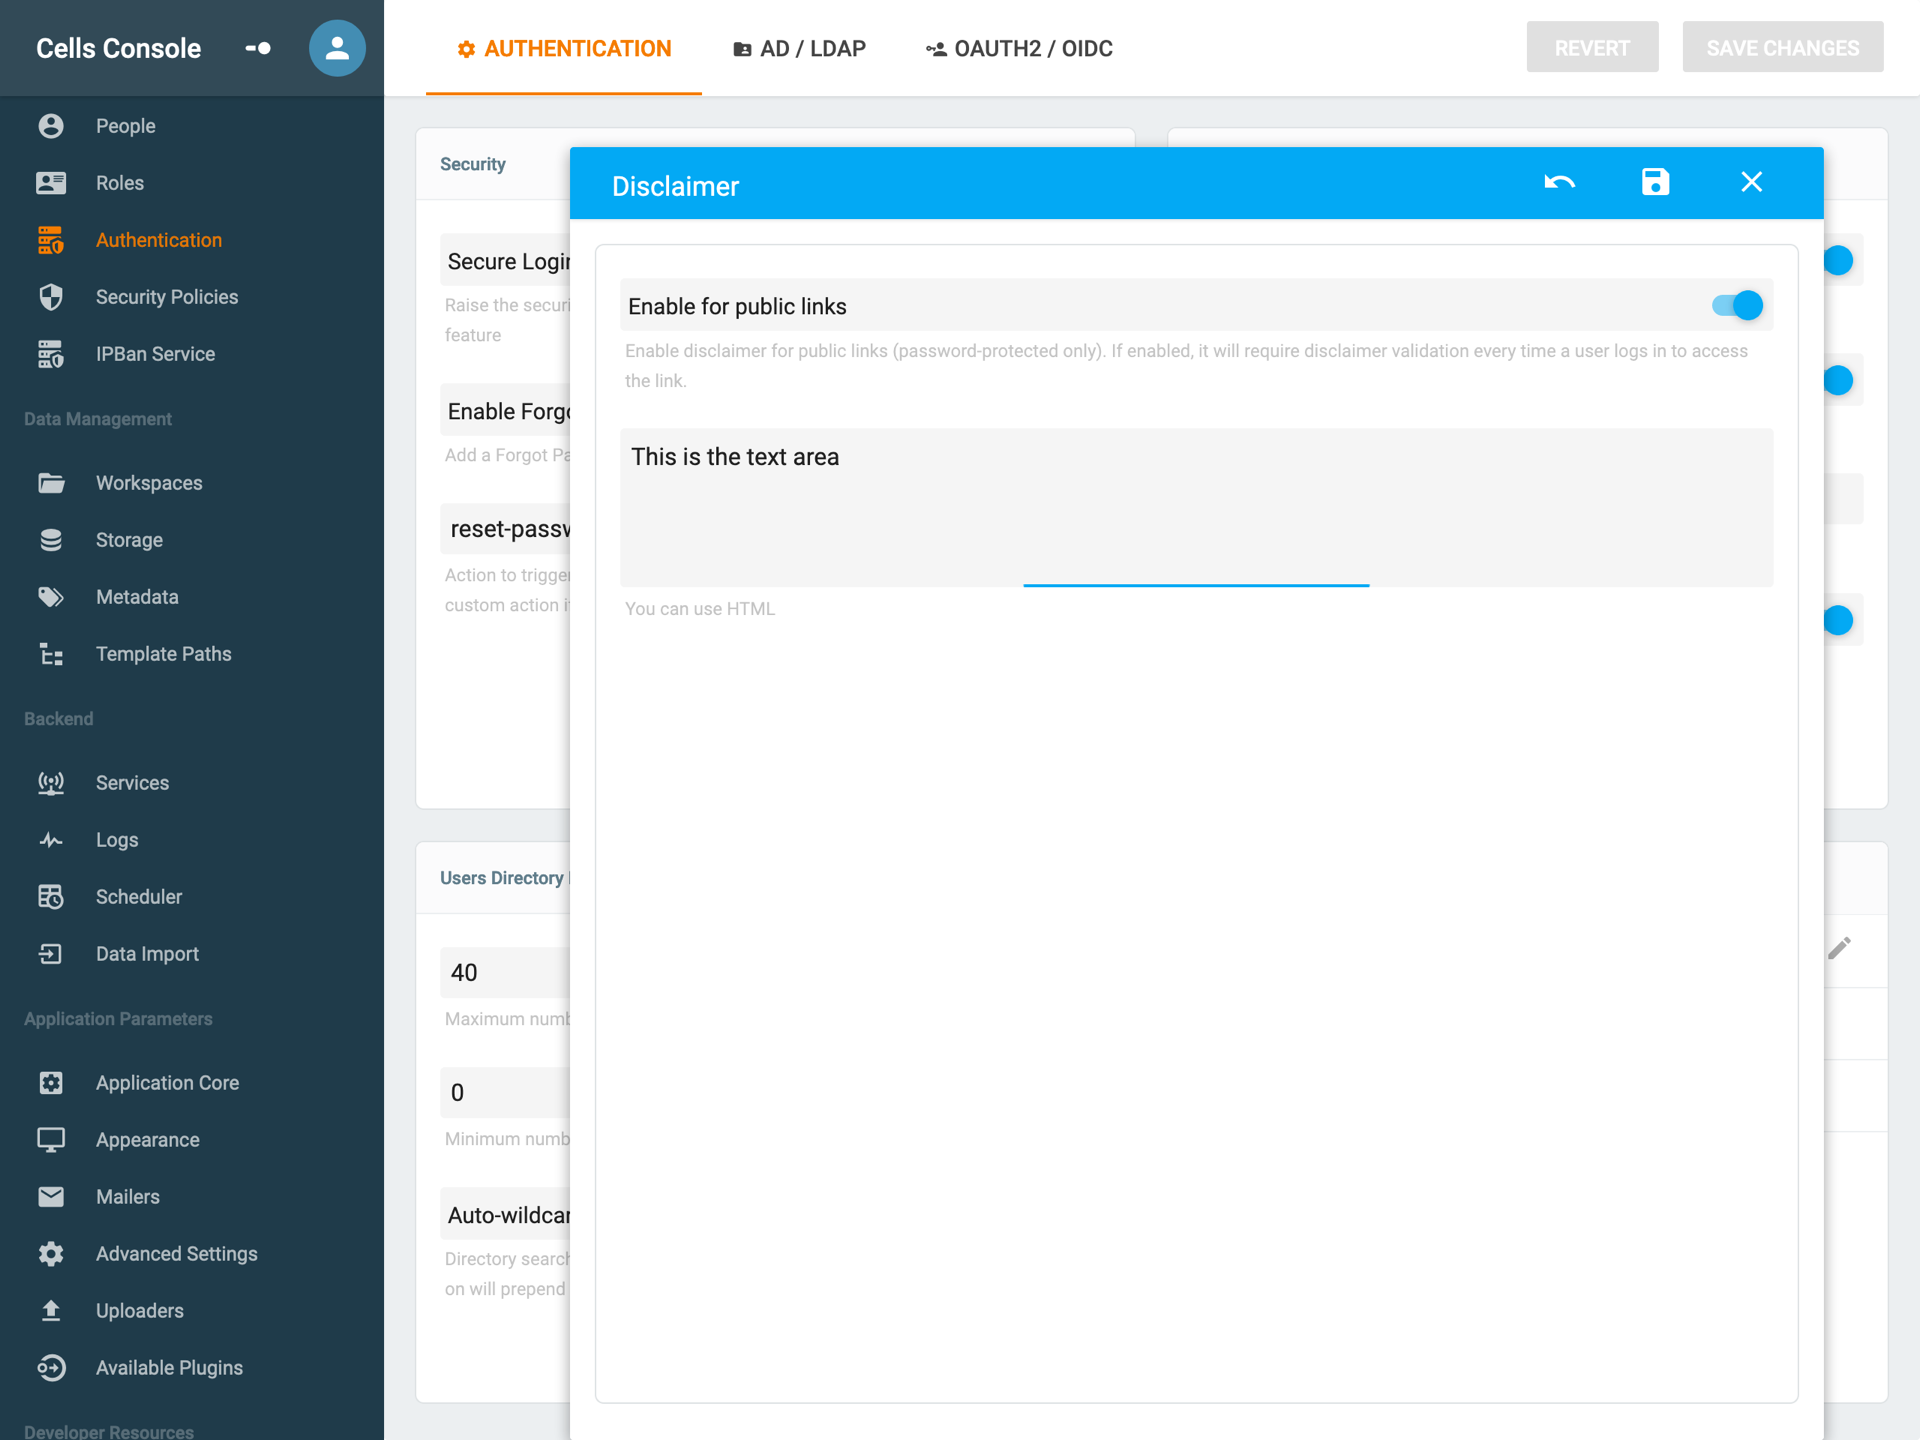
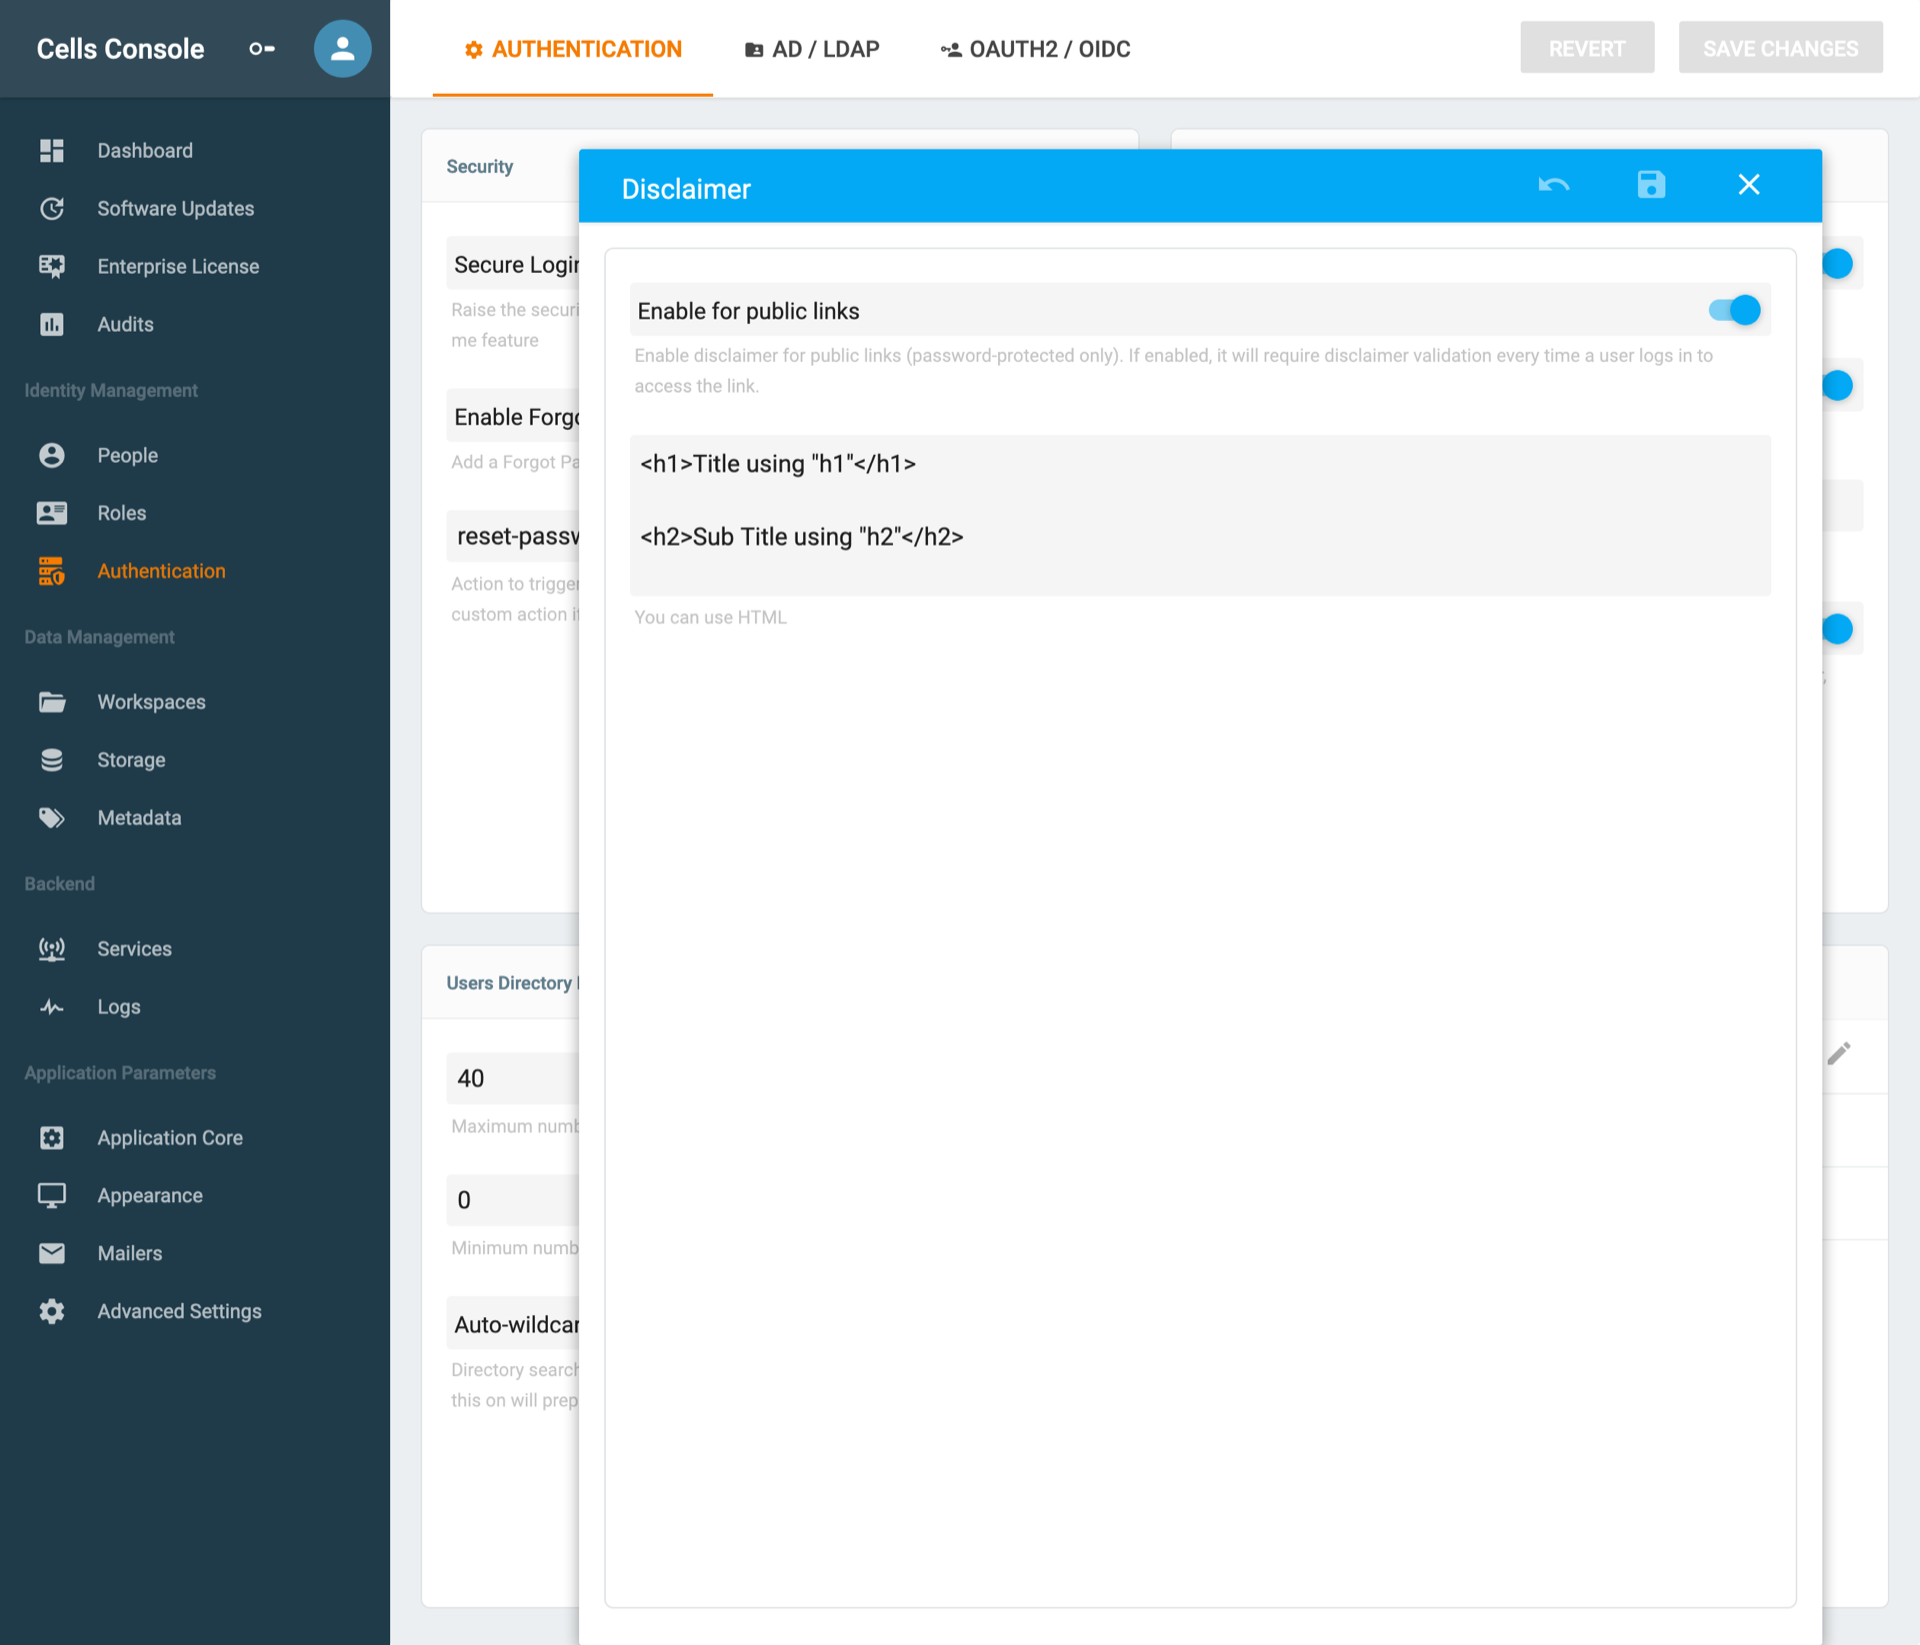
updated disclaimer screenshots

diff --git a/5_securing_your_data/6_compliance_audit/4_disclaimer.md b/5_securing_your_data/6_compliance_audit/4_disclaimer.md
@@ -5,7 +5,7 @@ This is typically suited to fit compliance rules from your company or GDPR europ
 
 You first need to enable the plugin, to do that browse to the following menu **Cells Console >> Identity Management >> Authentication**.
 
-You are now presented with the following settings window, you need to enabled it and then you can edit it to add your custom message.
+You are now presented with the following settings window, you need to enabled it and then you can edit it to add your custom message, html elements can also be used in the disclaimer as you can see on the screenshot below (see last screenshot for the end result)
 
 [:image:5_securing_your_data/auditing_accesses/disclaimer/disclaimer_enable.png]
 
@@ -16,5 +16,7 @@ You now also have an option to display a disclaimer for the public links.
 ### User authentication
 
 When a user authenticates for the first time he will be greeted with the following message and will have to agree and validate before being able to access the application.
+
+> This will also happen for password protected public links if the option is **enabled**.
 
 [:image:5_securing_your_data/auditing_accesses/disclaimer/disclaimer_user_login.png]
